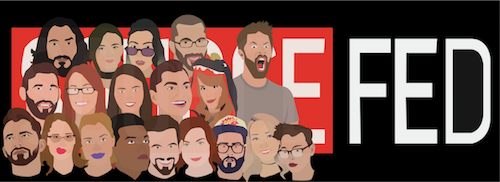
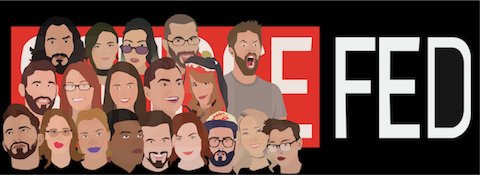
asd

diff --git a/3iem/mobileportfolio.html b/3iem/mobileportfolio.html
@@ -63,7 +63,7 @@
 	<div id="lemon"><img src="images/lemon.png" alt="essai de pancart" height="299.5px" width="200px"></div>
 	<div id="generations"><img src="images/generations4.png" alt="projet de dimension" height="154px" width="500px"></div>
 	<div id="car"><img src="images/car2.png" alt="projet de AI ma voiture" height="150px" width="200px"></div>
-	<div id="sf"><img src="images/sourcefed2.png" alt="projet de AI SourceFed" height="182px" width="500px"></div>
+	<div id="sf"><img src="images/sourcefed2.png" alt="projet de AI SourceFed" height="175px" width="480px"></div>
 </div>
 <footer></footer>
 </main>
